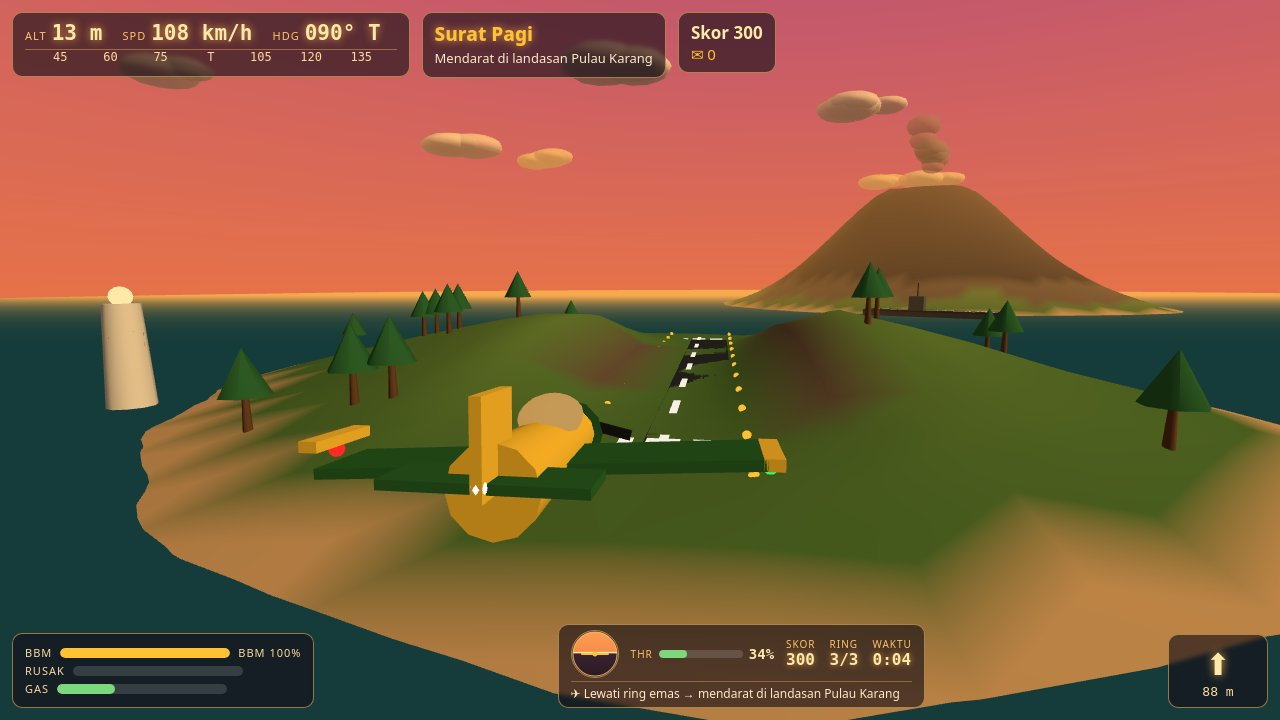
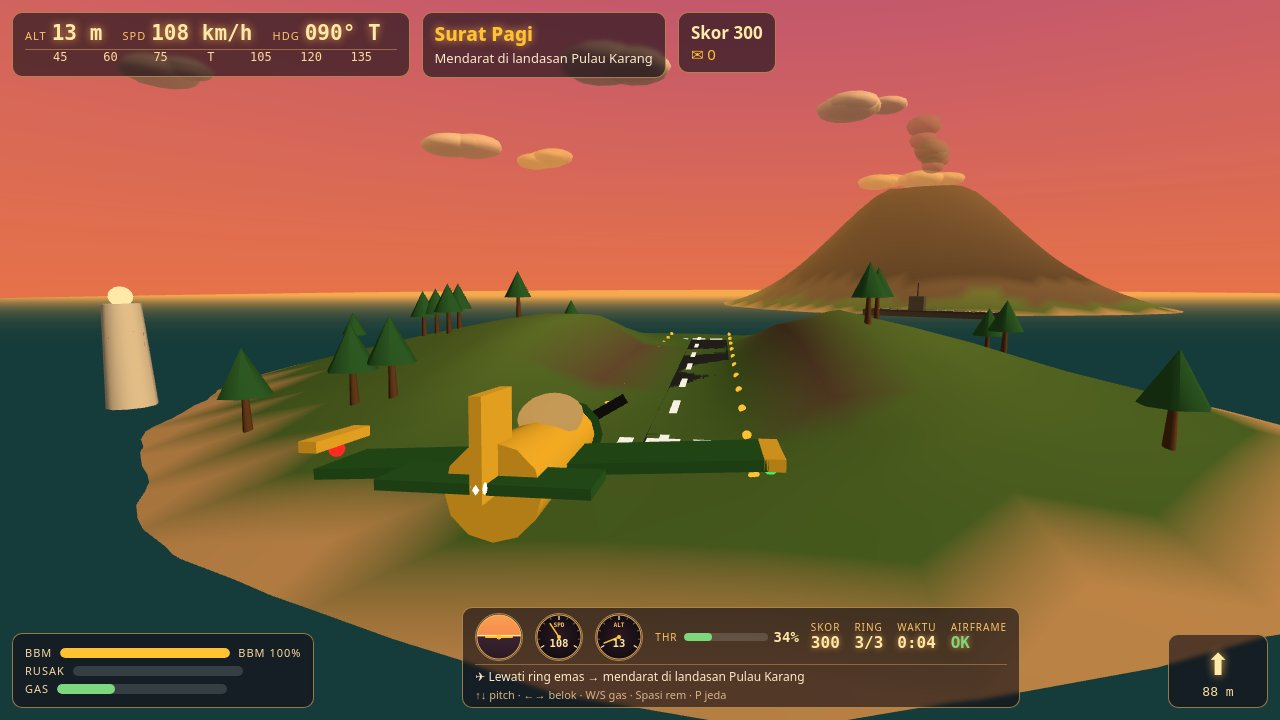
HUD bawah lebih padat (round 2): dial bundar SPD/ALT + status AIRFRAME + baris kontrol
Re-mock v2 65% (HOLD): satu-satunya kekalahan dari klaster instrumen Ridge
yang lebih penuh (dial bundar airspeed/altitude, status airframe, kontrol
di layar). Panel bawah kini: dial SPD + dial ALT (jarum hidup dari
kecepatan/ketinggian nyata), status AIRFRAME OK/HURT/CRIT terikat damage
nyata, dan baris kontrol asli (atas-bawah pitch, kiri-kanan belok, W/S gas,
Spasi rem, P jeda). HUD atas, misi, bar BBM/RUSAK/GAS, attitude + THR +
counter dari round 1, flight model, terrain, dan pesawat tidak berubah.
Screenshot di-render ulang (seed 1, settle 90 frame, semua ready).

Changed region(s): [[0.3438, 0.825, 0.8125, 1.0], [0.4688, 0.55, 0.5, 0.6111]]

diff --git a/game/src/hud.js b/game/src/hud.js
@@ -23,6 +23,8 @@ export function createHud(callbacks) {
     att: $('hud-att'), thrBar: $('hud-thr-bar'), thrText: $('hud-thr-text'),
     panelScore: $('hud-panel-score'), panelRings: $('hud-panel-rings'),
     panelTime: $('hud-panel-time'), instruction: $('hud-instruction'),
+    dialSpd: $('hud-dial-spd'), dialAlt: $('hud-dial-alt'),
+    airframe: $('hud-panel-airframe'),
   };
   let toastTimer = 0;
   // Mission clock (counts up from mission start) + the active mission spec,
@@ -30,6 +32,65 @@ export function createHud(callbacks) {
   let elapsed = 0;
   let missionSpec = null;
   const attCtx = els.att ? els.att.getContext('2d') : null;
+  const dialSpdCtx = els.dialSpd ? els.dialSpd.getContext('2d') : null;
+  const dialAltCtx = els.dialAlt ? els.dialAlt.getContext('2d') : null;
+
+  // Round gauge: dark face, amber ring, tick marks over a 240-degree sweep,
+  // needle for the live value, unit printed at the top, value in the middle.
+  // Same sunset palette as the attitude indicator.
+  function drawDial(ctx, value, max, unit) {
+    if (!ctx) return;
+    const S = 92, R = S / 2;
+    const v = clamp(value, 0, max);
+    ctx.clearRect(0, 0, S, S);
+    ctx.save();
+    ctx.beginPath();
+    ctx.arc(R, R, R - 2, 0, Math.PI * 2);
+    ctx.clip();
+    const face = ctx.createRadialGradient(R, R, 4, R, R, R);
+    face.addColorStop(0, '#2a1822');
+    face.addColorStop(1, '#140d12');
+    ctx.fillStyle = face;
+    ctx.fillRect(0, 0, S, S);
+    // Ticks: needle sweeps -120deg..+120deg from 12 o'clock.
+    const toRad = (deg) => (deg - 90) * Math.PI / 180;
+    for (let i = 0; i <= 10; i++) {
+      const a = toRad(-120 + i * 24);
+      const major = i % 5 === 0;
+      const r0 = major ? R - 12 : R - 8;
+      ctx.strokeStyle = major ? '#ffe9a8' : 'rgba(255, 217, 160, 0.55)';
+      ctx.lineWidth = major ? 2.5 : 1.5;
+      ctx.beginPath();
+      ctx.moveTo(R + Math.cos(a) * r0, R + Math.sin(a) * r0);
+      ctx.lineTo(R + Math.cos(a) * (R - 4), R + Math.sin(a) * (R - 4));
+      ctx.stroke();
+    }
+    const na = toRad(-120 + 240 * (v / max));
+    ctx.strokeStyle = '#ffc233';
+    ctx.lineWidth = 3;
+    ctx.lineCap = 'round';
+    ctx.beginPath();
+    ctx.moveTo(R, R);
+    ctx.lineTo(R + Math.cos(na) * (R - 14), R + Math.sin(na) * (R - 14));
+    ctx.stroke();
+    ctx.fillStyle = '#ffc233';
+    ctx.beginPath();
+    ctx.arc(R, R, 4, 0, Math.PI * 2);
+    ctx.fill();
+    ctx.fillStyle = '#ffc46b';
+    ctx.font = '700 12px ui-monospace, monospace';
+    ctx.textAlign = 'center';
+    ctx.fillText(unit, R, R - 20);
+    ctx.fillStyle = '#ffe9a8';
+    ctx.font = '700 21px ui-monospace, monospace';
+    ctx.fillText(String(Math.round(v)), R, R + 20);
+    ctx.restore();
+    ctx.strokeStyle = 'rgba(255,196,107,0.8)';
+    ctx.lineWidth = 2;
+    ctx.beginPath();
+    ctx.arc(R, R, R - 2, 0, Math.PI * 2);
+    ctx.stroke();
+  }
 
   // Small attitude indicator: sunset sky above a dark ground, horizon bar
   // counter-rotated against the bank, fixed amber aircraft symbol on top.
@@ -126,6 +187,14 @@ export function createHud(callbacks) {
     // Dense bottom panel: live throttle, score, ring progress, mission clock.
     if (mission) elapsed += dt;
     drawAttitude(f.pitch || 0, f.roll || 0);
+    drawDial(dialSpdCtx, Math.round(f.speed * 3.6), 300, 'SPD');
+    drawDial(dialAltCtx, Math.max(0, Math.round(f.y)), 400, 'ALT');
+    // Airframe status, tied to the real damage value (same scale as the
+    // RUSAK bar): OK < 30, HURT < 70, CRIT at 70+.
+    const dmgNow = clamp(f.damage, 0, 100);
+    const af = dmgNow < 30 ? 'OK' : dmgNow < 70 ? 'HURT' : 'CRIT';
+    els.airframe.textContent = af;
+    els.airframe.style.color = af === 'OK' ? '#7dd87d' : af === 'HURT' ? '#ffc233' : '#ff6a5e';
     const thrPct = Math.round((f.throttle || 0) * 100);
     els.thrBar.style.width = `${thrPct}%`;
     els.thrText.textContent = `${thrPct}%`;

diff --git a/game/index.html b/game/index.html
@@ -38,6 +38,8 @@
     <div class="hud-box" id="hud-panel">
       <div id="hud-panel-row">
         <canvas id="hud-att" width="92" height="92"></canvas>
+        <canvas id="hud-dial-spd" class="hud-dial" width="92" height="92"></canvas>
+        <canvas id="hud-dial-alt" class="hud-dial" width="92" height="92"></canvas>
         <div id="hud-thr-wrap">
           <span class="hud-mini-label">THR</span>
           <div class="bar mini"><div id="hud-thr-bar"></div></div>
@@ -47,9 +49,11 @@
           <span class="hud-prog"><span class="hud-mini-label">SKOR</span><b id="hud-panel-score">0</b></span>
           <span class="hud-prog"><span class="hud-mini-label">RING</span><b id="hud-panel-rings">0/3</b></span>
           <span class="hud-prog"><span class="hud-mini-label">WAKTU</span><b id="hud-panel-time">0:00</b></span>
+          <span class="hud-prog"><span class="hud-mini-label">AIRFRAME</span><b id="hud-panel-airframe">OK</b></span>
         </div>
       </div>
       <div id="hud-instruction">✈ Lewati ring emas → mendarat di runway</div>
+      <div id="hud-controls">↑↓ pitch · ←→ belok · W/S gas · Spasi rem · P jeda</div>
     </div>
     <div class="hud-box" id="hud-wp">
       <div id="hud-wp-arrow">⬆</div>

diff --git a/game/styles.css b/game/styles.css
@@ -39,6 +39,8 @@ html, body { margin: 0; height: 100%; overflow: hidden; background: #1a1218;
 #hud-panel-row { display: flex; align-items: center; gap: 12px; }
 #hud-att { width: 46px; height: 46px; border-radius: 50%;
   border: 1px solid rgba(255, 196, 107, 0.55); display: block; flex: none; }
+.hud-dial { width: 46px; height: 46px; border-radius: 50%;
+  border: 1px solid rgba(255, 196, 107, 0.55); display: block; flex: none; }
 #hud-thr-wrap { display: flex; align-items: center; gap: 6px; }
 .hud-mini-label { font-size: 10px; letter-spacing: 1px; color: #ffc46b; }
 .bar.mini { width: 84px; height: 8px; }
@@ -52,6 +54,7 @@ html, body { margin: 0; height: 100%; overflow: hidden; background: #1a1218;
 #hud-instruction { margin-top: 3px; padding-top: 3px;
   border-top: 1px solid rgba(255, 196, 107, 0.35);
   font-size: 12px; color: #ffe9c9; white-space: nowrap; }
+#hud-controls { margin-top: 2px; font-size: 11px; color: #d9b48a; white-space: nowrap; }
 #hud-wp-arrow { font-size: 30px; color: #ffe9a8; text-shadow: 0 0 10px rgba(255, 180, 80, 0.9); }
 #hud-wp-dist { font-size: 13px; font-family: ui-monospace, monospace; color: #ffd9a0; }
 #hud-toast { position: absolute; top: 96px; left: 50%; transform: translateX(-50%);
